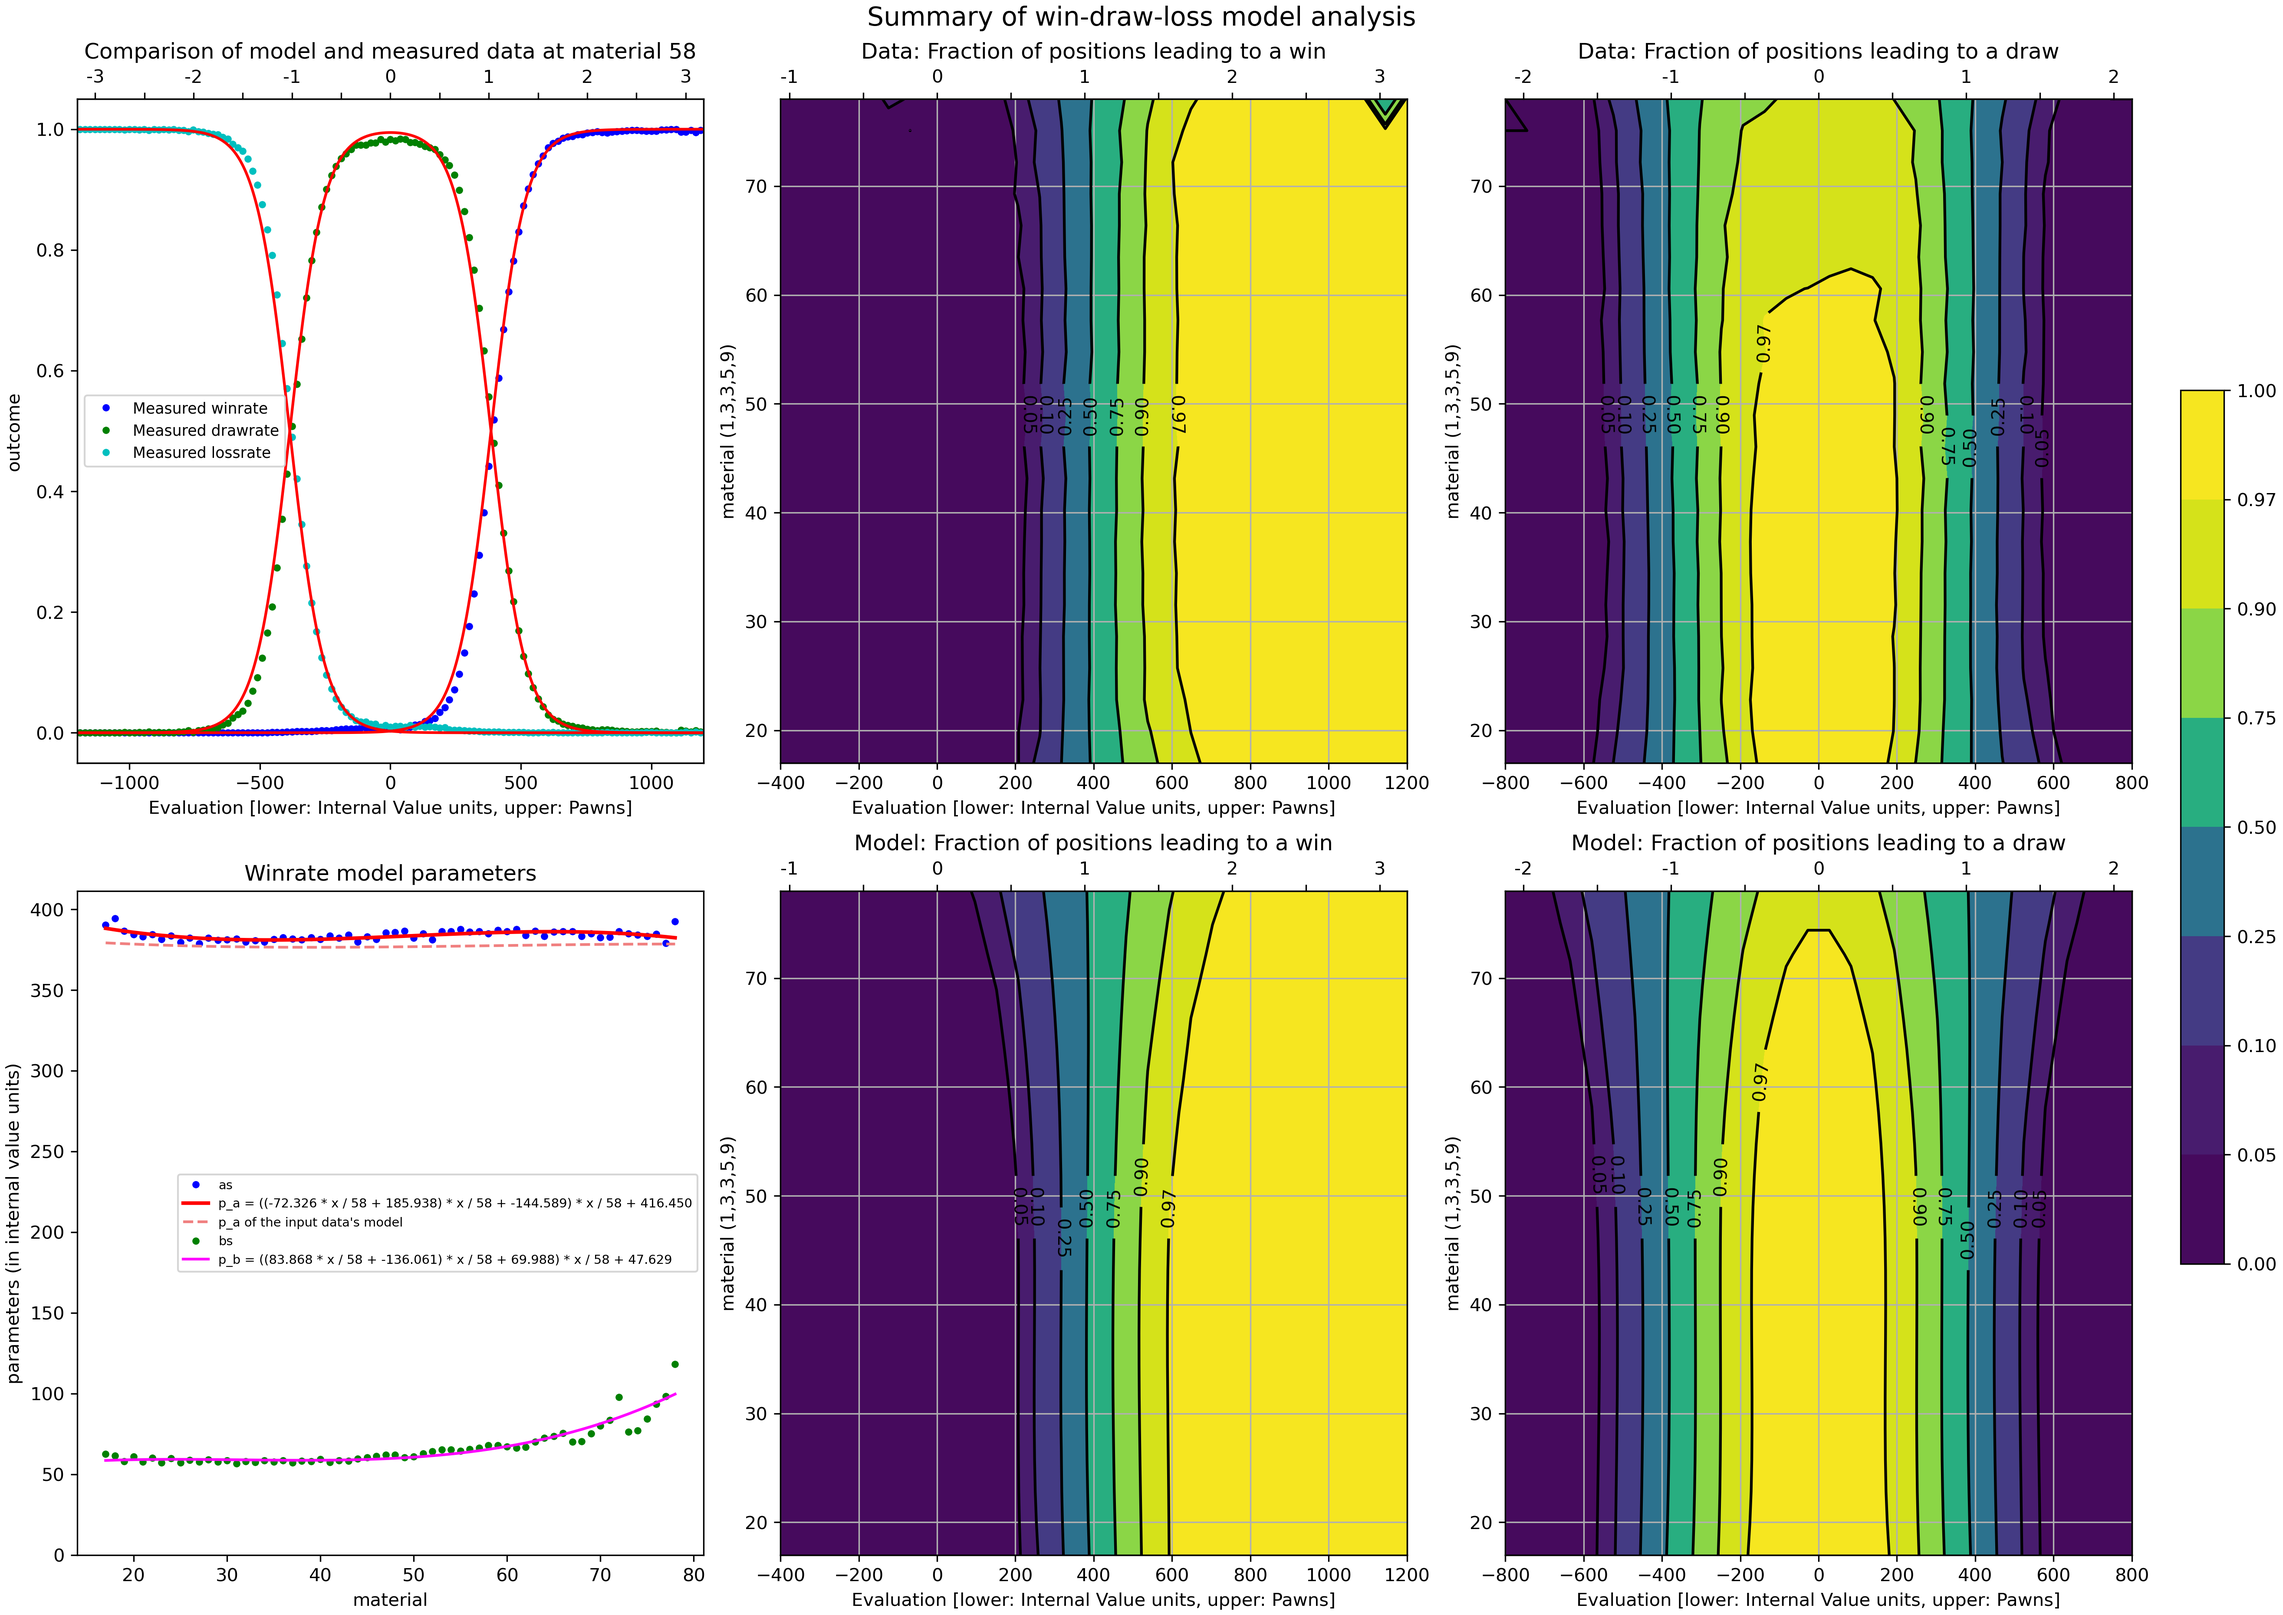
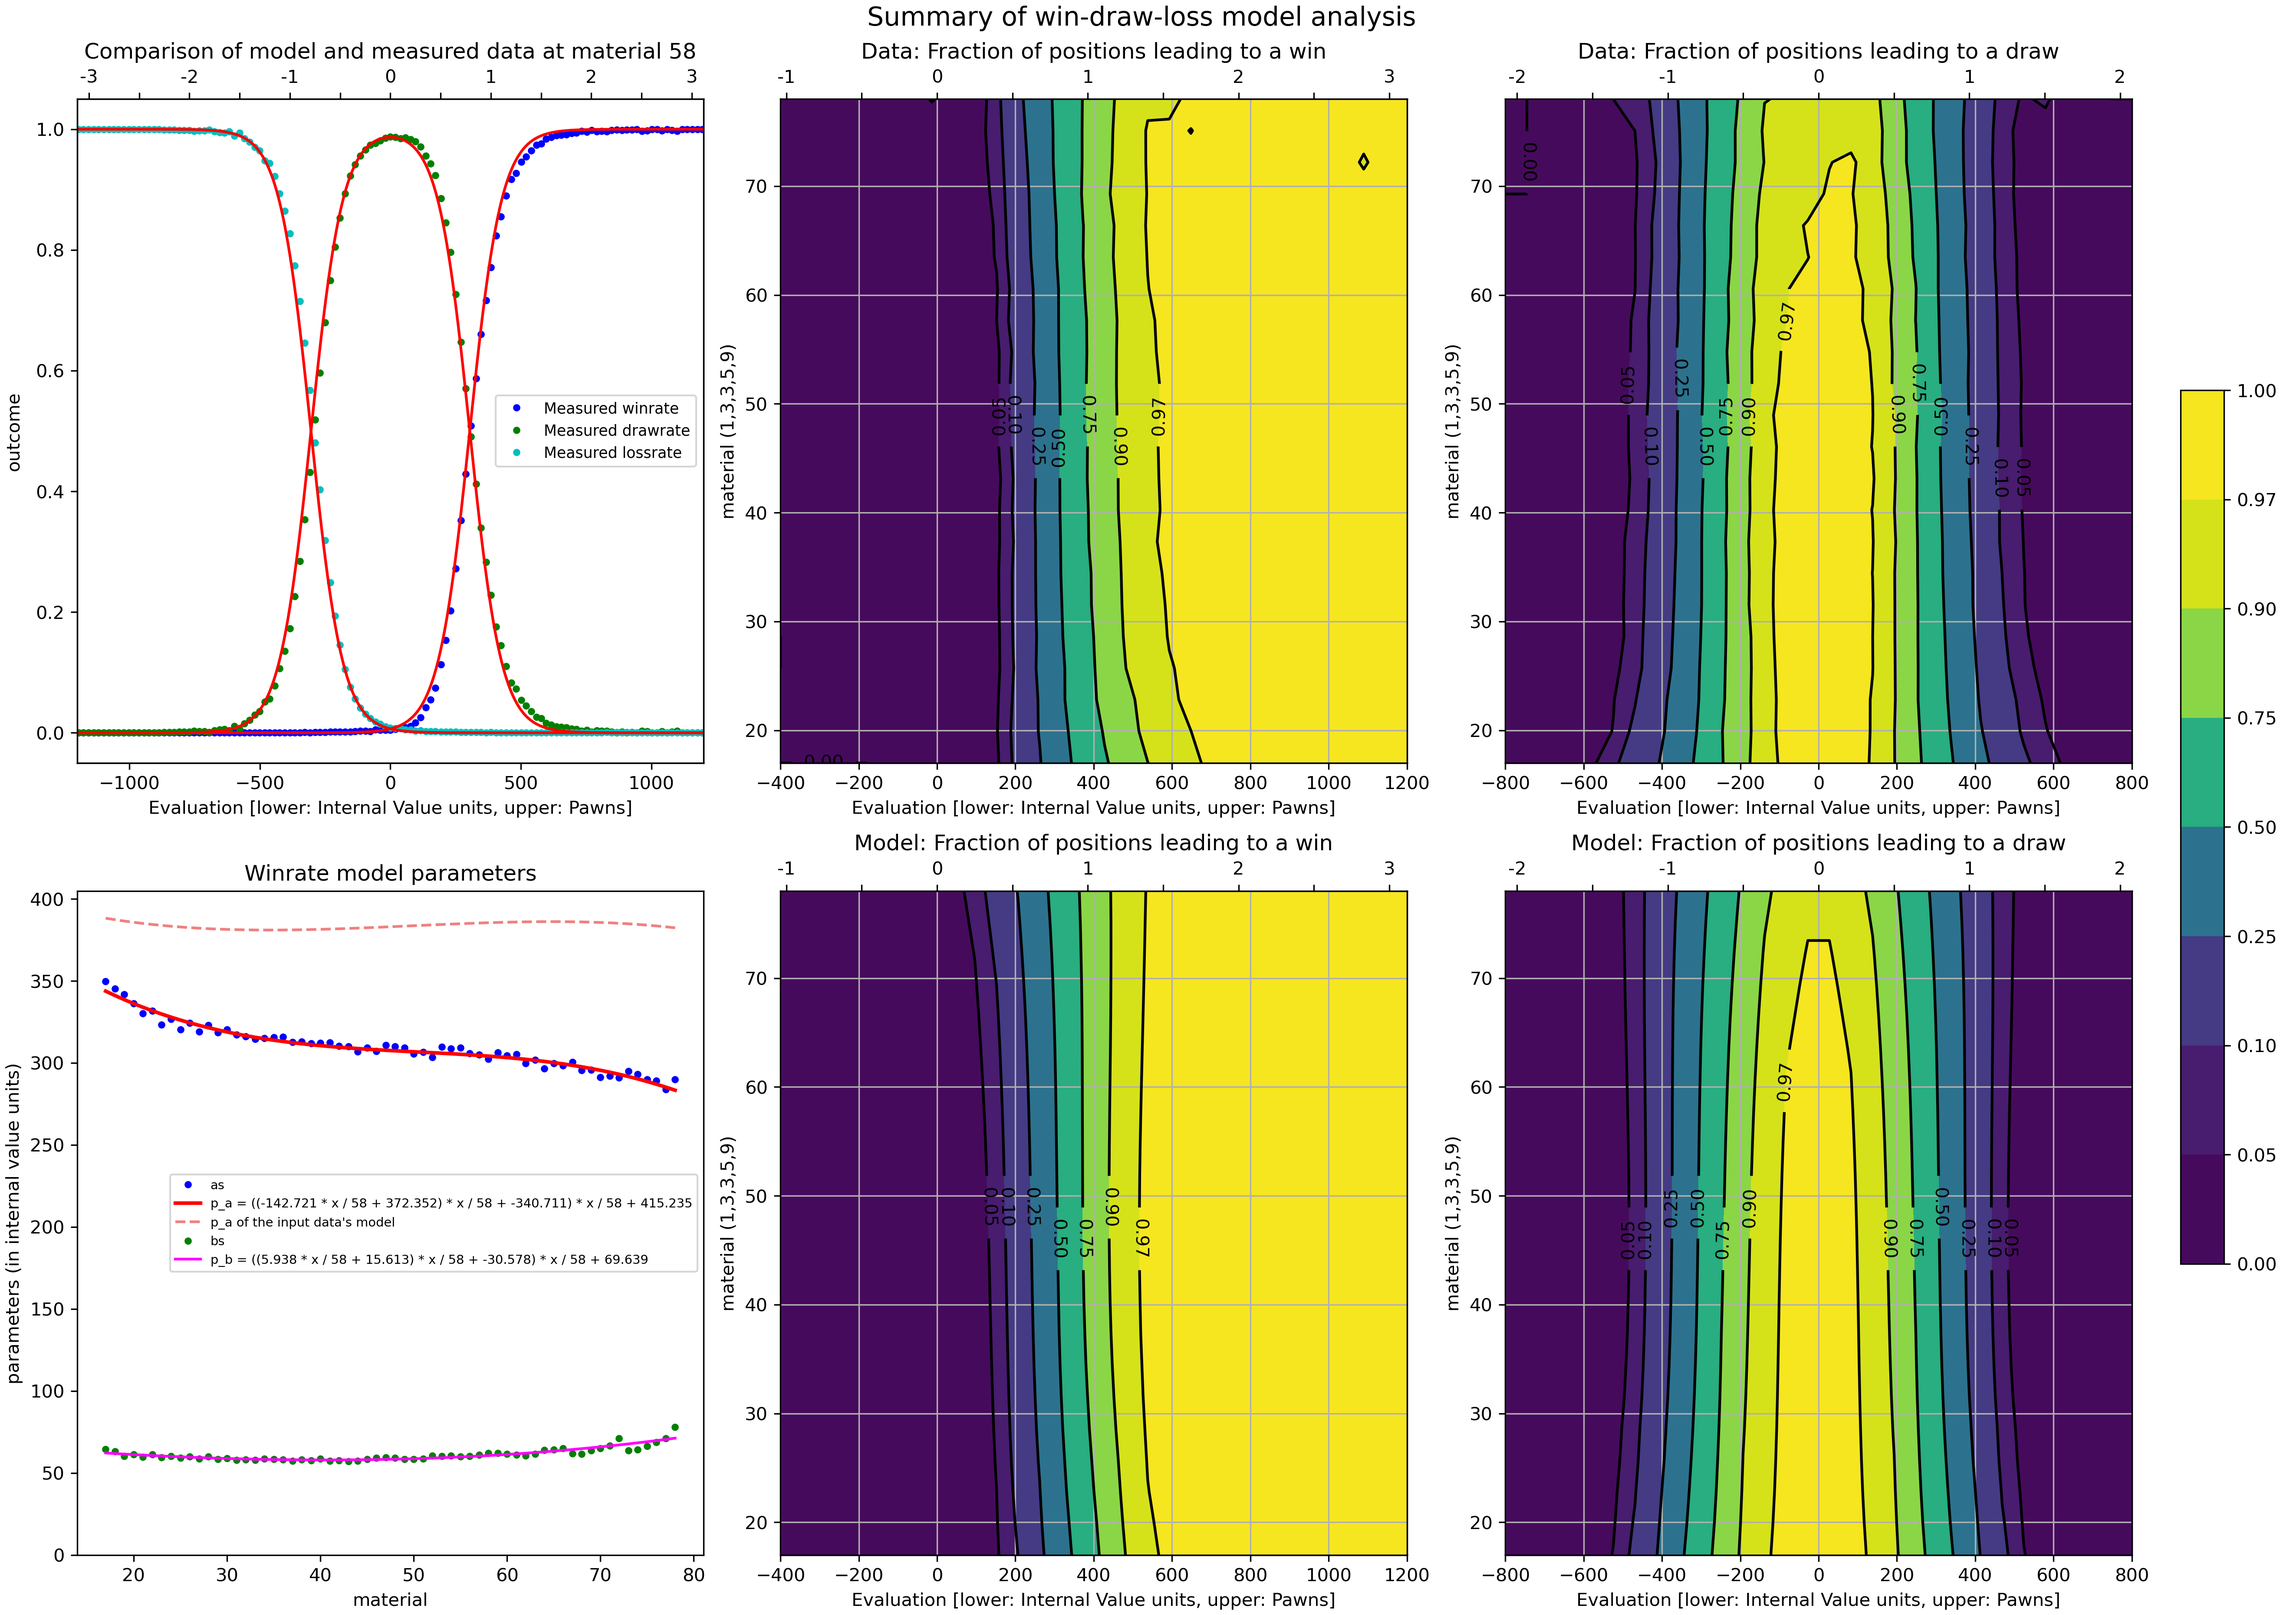
reflect the WDL model update in Stockfish (#221)

diff --git a/scoreWDL.py b/scoreWDL.py
@@ -710,7 +710,7 @@ if __name__ == "__main__":
 
     if args.NormalizeToPawnValue is None:
         if args.NormalizeData is None:
-            args.NormalizeData = '{"momType": "material", "momMin": 17, "momMax": 78, "momTarget": 58, "as": [-72.32565836,185.93832038,-144.58862193,416.44950446]}'
+            args.NormalizeData = '{"momType": "material", "momMin": 17, "momMax": 78, "momTarget": 58, "as": [-142.72052667,372.35176398,-340.71073572,415.23490212]}'
     else:
         assert (
             args.NormalizeData is None
